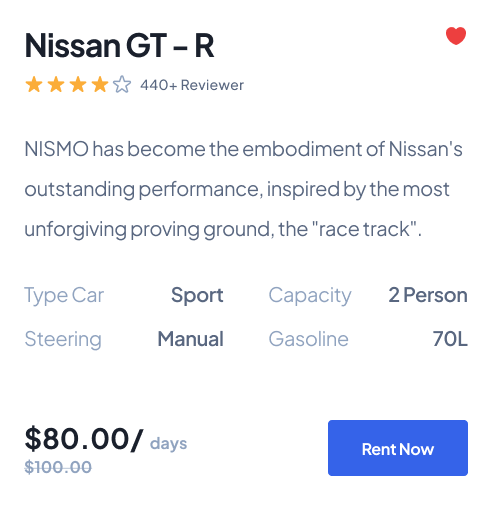
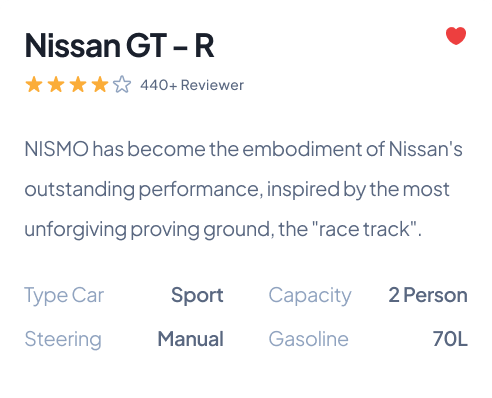
updated index.html

diff --git a/src/app/details/page.tsx b/src/app/details/page.tsx
@@ -54,7 +54,7 @@ export default function page() {
         </section>
         <section className=' w-full flex items-center justify-center'>
             <Image src={'/Reviews.png'} alt='' width={1010} height={452} className=' hidden md:flex'/>
-            <Image src={'/Reviews (1).png'} alt='' width={492} height={384} className=' md:hidden'/>
+            
         </section>
         <section className="popular w-full flex flex-col gap-5">
         <div className="first w-full flex items-center justify-between px-10 xl:px-14">
@@ -67,16 +67,14 @@ export default function page() {
         </div>
         <div className="sec grid grid-cols-1 sm:grid-cols-2 lg:grid-cols-3 gap-4 xl:px-5 ">
         
-          <Card className="w-full max-w-[304px] mx-auto h-auto flex flex-col justify-between">
+          <Card className="w-full max-w-[300px] mx-auto h-auto flex flex-col justify-between">
             <CardHeader>
               <CardTitle className="w-full flex items-center justify-between">
-                Koenigsegg <Image src={"/heart.png"} alt="" width={20} height={20} />
               </CardTitle>
-              <CardDescription>Sport</CardDescription>
+              <CardDescription></CardDescription>
             </CardHeader>
             <CardContent className="w-full flex flex-col items-center justify-center gap-4">
-              <Image src={"/car.png"} alt="" width={220} height={68} />
-              <Image src={"/Spesification.png"} alt="" width={256} height={24} />
+              <Image src={"/koen.png"} alt="" width={220} height={220} className='h-[300px] w-[300px]'/>
             </CardContent>
             <CardFooter className="w-full flex items-center justify-between">
               <p>
@@ -90,13 +88,12 @@ export default function page() {
           <Card className="w-full max-w-[304px] mx-auto h-auto flex flex-col justify-between">
             <CardHeader>
               <CardTitle className="w-full flex items-center justify-between">
-                NissanGT - R <Image src={"/heart 2.png"} alt="" width={20} height={20} />
+               
               </CardTitle>
-              <CardDescription>Sport</CardDescription>
+              <CardDescription></CardDescription>
             </CardHeader>
             <CardContent className="w-full flex flex-col items-center justify-center gap-4">
-              <Image src={"/car (1).png"} alt="" width={220} height={68} />
-              <Image src={"/Spesification.png"} alt="" width={256} height={24} />
+              <Image src={"/gtr.png"} alt="" width={220} height={68}  className='h-[300px] w-[300px]'/>
             </CardContent>
             <CardFooter className="w-full flex items-center justify-between">
               <p>
@@ -110,13 +107,12 @@ export default function page() {
           <Card className="w-full max-w-[304px] mx-auto h-auto flex flex-col justify-between">
             <CardHeader>
               <CardTitle className="w-full flex items-center justify-between">
-                Rolls-Royce <Image src={"/heart.png"} alt="" width={20} height={20} />
+              
               </CardTitle>
-              <CardDescription>Sedan</CardDescription>
+              <CardDescription></CardDescription>
             </CardHeader>
             <CardContent className="w-full flex flex-col items-center justify-center gap-4">
-              <Image src={"/suv.png"} alt="" width={220} height={68} />
-              <Image src={"/Spesification.png"} alt="" width={256} height={24} />
+              <Image src={"/rolls.png"} alt="" width={220} height={68} className='h-[300px] w-[300px]' />
             </CardContent>
             <CardFooter className="w-full flex items-center justify-between">
               <p>
@@ -141,13 +137,13 @@ export default function page() {
         <Card className="w-full max-w-[304px] mx-auto h-auto flex flex-col justify-between">
             <CardHeader>
               <CardTitle className="w-full flex items-center justify-between">
-                All New Rush <Image src={"/heart.png"} alt="" width={20} height={20} />
+                
               </CardTitle>
-              <CardDescription>SUV</CardDescription>
+              <CardDescription></CardDescription>
             </CardHeader>
             <CardContent className="w-full flex flex-col items-center justify-center gap-4">
-              <Image src={"/suv.png"} alt="" width={220} height={68} />
-              <Image src={"/Spesification.png"} alt="" width={256} height={24} />
+              <Image src={"/newrush.png"} alt="" width={220} height={68} className='h-[300px] w-[300px]' />
+             
             </CardContent>
             <CardFooter className="w-full flex items-center justify-between">
               <p>
@@ -161,13 +157,13 @@ export default function page() {
           <Card className="w-full max-w-[304px] mx-auto h-auto flex flex-col justify-between">
             <CardHeader>
               <CardTitle className="w-full flex items-center justify-between">
-                CR - V <Image src={"/heart 2.png"} alt="" width={20} height={20} />
+               
               </CardTitle>
-              <CardDescription>SUV</CardDescription>
+              <CardDescription></CardDescription>
             </CardHeader>
             <CardContent className="w-full flex flex-col items-center justify-center gap-4">
-              <Image src={"/suv.png"} alt="" width={220} height={68} />
-              <Image src={"/Spesification.png"} alt="" width={256} height={24} />
+              <Image src={"/crv.png"} alt="" width={220} height={68} className='h-[300px] w-[300px]' />
+             
             </CardContent>
             <CardFooter className="w-full flex items-center justify-between">
               <p>
@@ -181,13 +177,13 @@ export default function page() {
           <Card className="w-full max-w-[304px] mx-auto h-auto flex flex-col justify-between">
             <CardHeader>
               <CardTitle className="w-full flex items-center justify-between">
-                All New Terios <Image src={"/heart.png"} alt="" width={20} height={20} />
+               
               </CardTitle>
-              <CardDescription>SUV</CardDescription>
+              <CardDescription></CardDescription>
             </CardHeader>
             <CardContent className="w-full flex flex-col items-center justify-center gap-4">
-              <Image src={"/suv (4).png"} alt="" width={220} height={68} />
-              <Image src={"/Spesification.png"} alt="" width={256} height={24} />
+              <Image src={"/terios.png"} alt="" width={220} height={68} className='h-[300px] w-[300px]' />
+              
             </CardContent>
             <CardFooter className="w-full flex items-center justify-between">
               <p>
